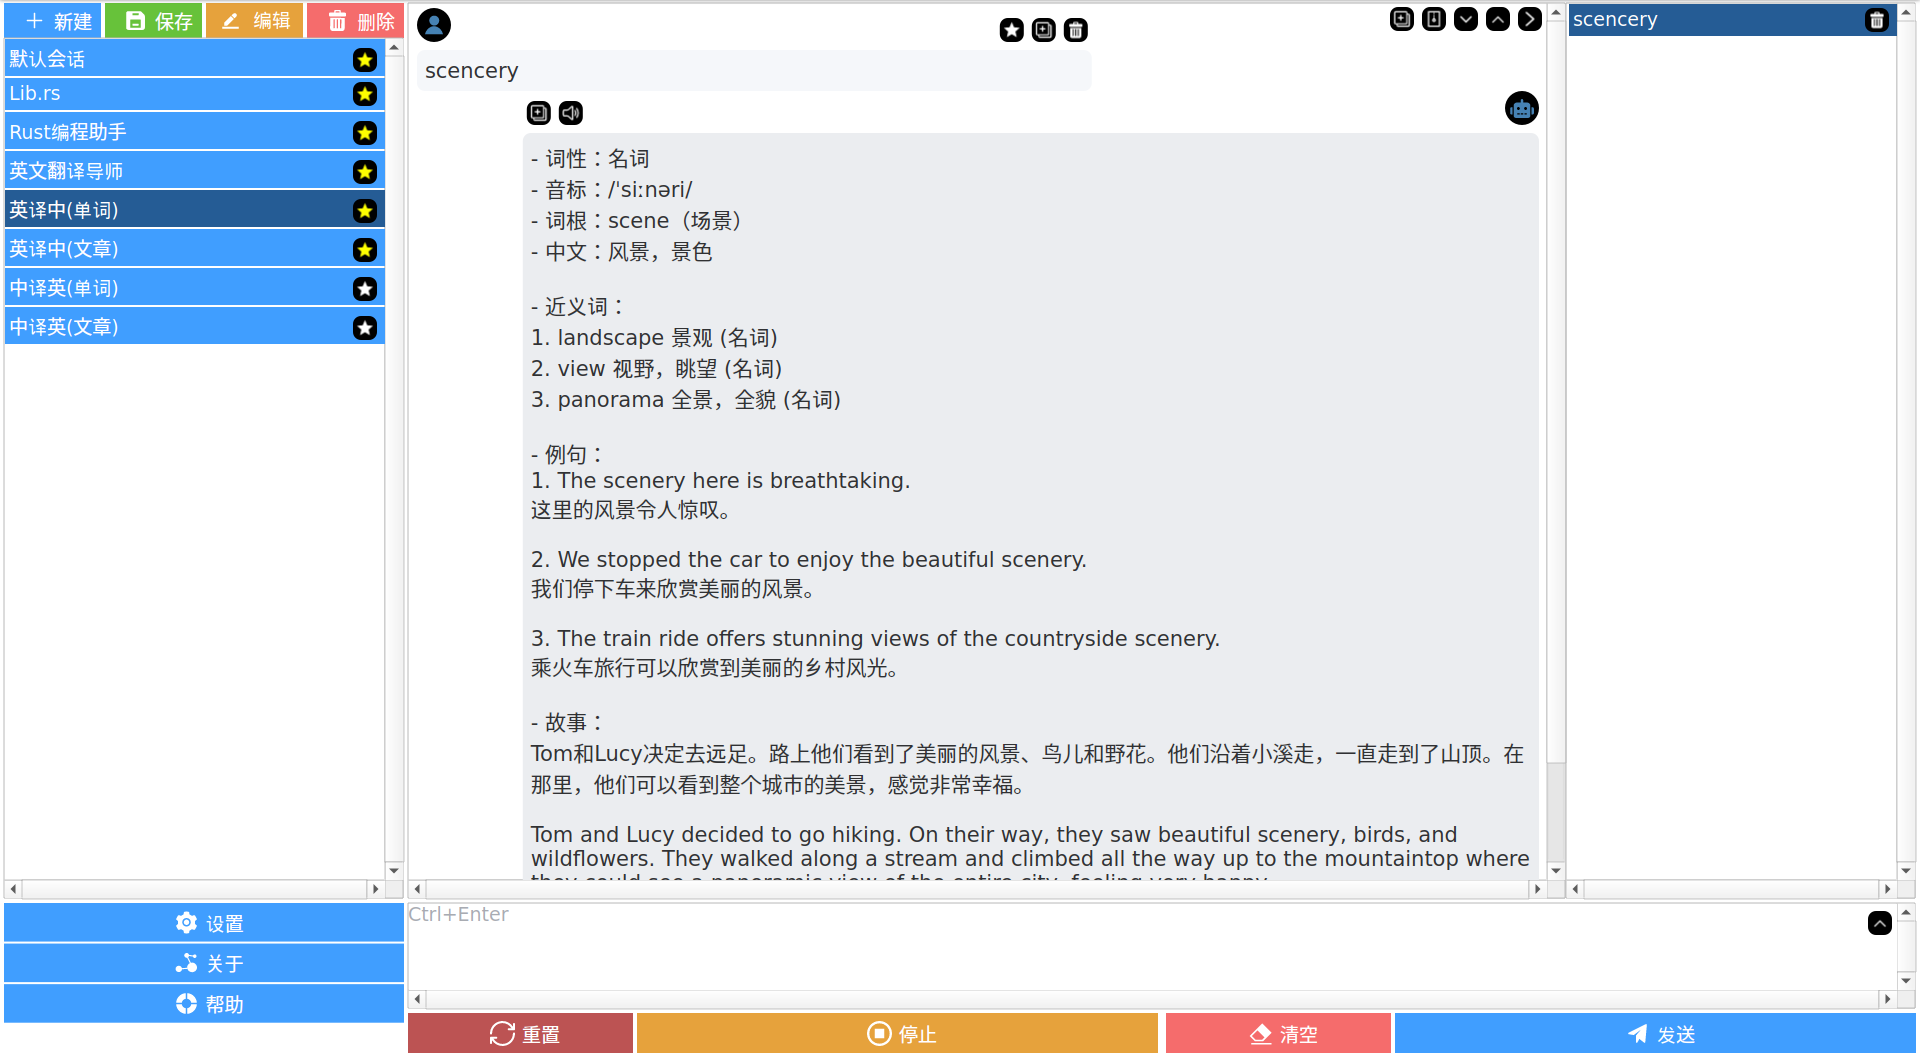
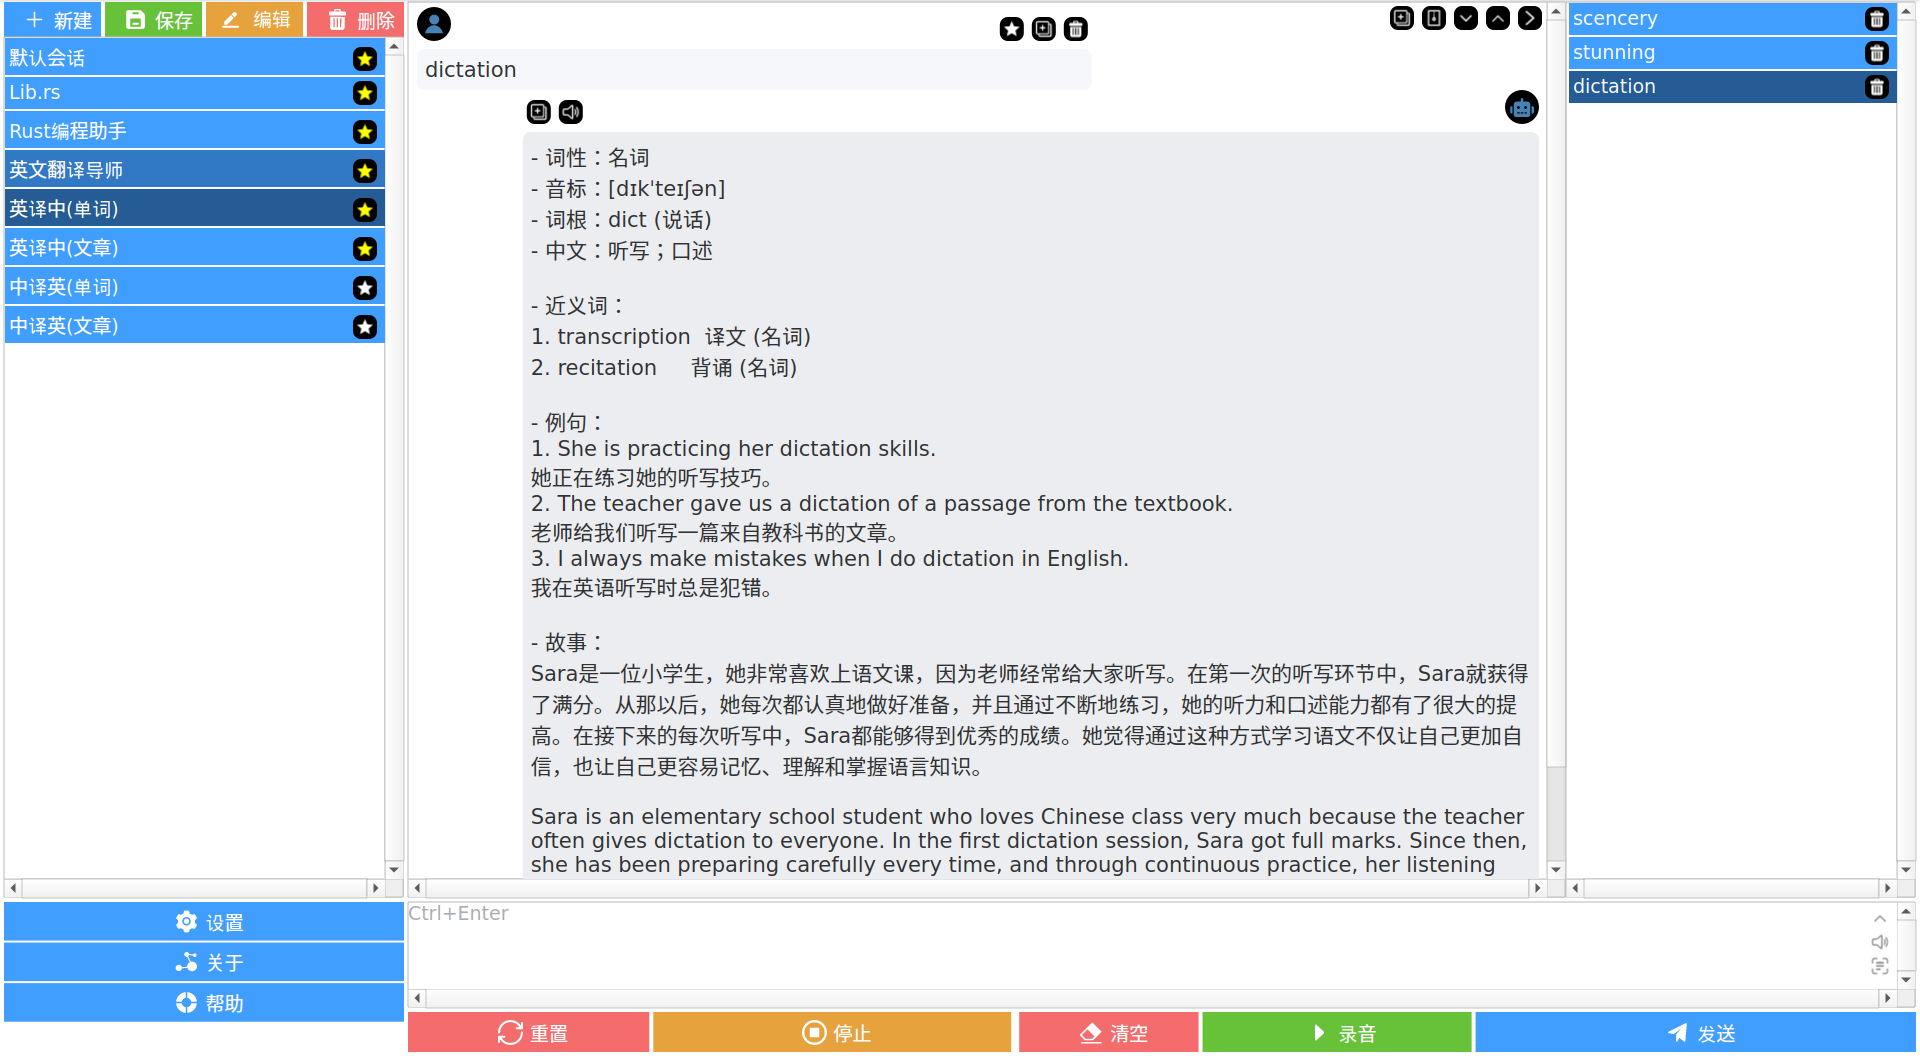
[+] 添加azure声音转文本功能

diff --git a/chatbox/src/logic/record.rs b/chatbox/src/logic/record.rs
@@ -1,6 +1,7 @@
 use crate::slint_generatedAppWindow::{AppWindow, Logic, Store};
 use crate::util::{self, qbox::QBox, translator::tr};
 use crate::{audio, config};
+use log::{debug, warn};
 use slint::ComponentHandle;
 use tokio::task::spawn;
 
@@ -9,6 +10,7 @@ static RECORD_FILENAME: &str = "record.wav";
 pub fn init(ui: &AppWindow) {
     let ui_start_box = QBox::new(ui);
     let ui_play_box = QBox::new(ui);
+    let ui_v2t_box = QBox::new(ui);
     let ui_stop = ui.as_weak();
     let ui_play = ui.as_weak();
 
@@ -18,27 +20,55 @@ pub fn init(ui: &AppWindow) {
             let record_filepath = config::audio_path() + "/" + RECORD_FILENAME;
             let device_name = audio_config.current_input_device;
 
-            ui_start_box
-                .borrow()
-                .global::<Store>()
-                .set_is_audio_recording(true);
+            if let Err(e) = slint::invoke_from_event_loop(move || {
+                ui_start_box
+                    .borrow()
+                    .global::<Store>()
+                    .set_is_audio_recording(true);
+            }) {
+                warn!("{:?}", e);
+            }
 
-            if let Err(e) = audio::record::record(
+            let is_auto_v2t = audio_config.is_auto_v2t;
+            match audio::record::record(
                 &device_name,
                 &record_filepath,
                 audio_config.max_recording_duration,
             ) {
-                ui_start_box.borrow().global::<Logic>().invoke_show_message(
-                    slint::format!("{}: {:?}", tr("录音失败") + "!", e),
-                    "warning".into(),
-                );
-            };
+                Err(e) => {
+                    if let Err(e) = slint::invoke_from_event_loop(move || {
+                        ui_start_box.borrow().global::<Logic>().invoke_show_message(
+                            slint::format!("{}: {:?}", tr("录音失败") + "!", e),
+                            "warning".into(),
+                        );
+                    }) {
+                        warn!("{:?}", e);
+                    }
+                }
+                _ => {
+                    if is_auto_v2t {
+                        if let Err(e) = slint::invoke_from_event_loop(move || {
+                            ui_start_box
+                                .borrow_mut()
+                                .global::<Logic>()
+                                .invoke_voice_to_text();
+                        }) {
+                            warn!("{:?}", e);
+                        }
+                    }
+                }
+            }
 
             audio::record::set_recording(false);
-            ui_start_box
-                .borrow()
-                .global::<Store>()
-                .set_is_audio_recording(false);
+
+            if let Err(e) = slint::invoke_from_event_loop(move || {
+                ui_start_box
+                    .borrow()
+                    .global::<Store>()
+                    .set_is_audio_recording(false);
+            }) {
+                warn!("{:?}", e);
+            }
         });
     });
 
@@ -61,5 +91,71 @@ pub fn init(ui: &AppWindow) {
                 "info".into(),
             );
         }
+    });
+
+    ui.global::<Logic>().on_voice_to_text(move || {
+        ui_v2t_box
+            .borrow()
+            .global::<Logic>()
+            .invoke_show_message(tr("正在将录音转换为文本...").into(), "info".into());
+
+        spawn(async move {
+            let record_filepath = config::audio_path() + "/" + RECORD_FILENAME;
+            let audio_config = config::audio();
+            match audio::azure::speech_to_text(&record_filepath, &audio_config.speech_language)
+                .await
+            {
+                Err(e) => {
+                    let estr = e.to_string();
+                    if let Err(e) = slint::invoke_from_event_loop(move || {
+                        ui_v2t_box.borrow().global::<Logic>().invoke_show_message(
+                            slint::format!("{}: {:?}", tr("录音转文字失败") + "!", estr),
+                            "warning".into(),
+                        );
+                    }) {
+                        warn!("{:?}", e);
+                    }
+                }
+
+                Ok(text) => match serde_json::from_str::<audio::data::Speech2Text>(&text) {
+                    Ok(item) => {
+                        debug!("{:?}", &item);
+                        if item.recognition_status != "Success" {
+                            if let Err(e) = slint::invoke_from_event_loop(move || {
+                                ui_v2t_box.borrow().global::<Logic>().invoke_show_message(
+                                    slint::format!("{}", tr("录音转文字失败") + "!"),
+                                    "warning".into(),
+                                );
+                            }) {
+                                warn!("{:?}", e);
+                            }
+                        }
+
+                        if let Err(e) = slint::invoke_from_event_loop(move || {
+                            let question = ui_v2t_box.borrow().get_question();
+                            let question = if question.trim().is_empty() {
+                                item.display_text.into()
+                            } else {
+                                question + "\n\n" + &item.display_text
+                            };
+                            ui_v2t_box.borrow().set_question(question);
+                        }) {
+                            warn!("{:?}", e);
+                        }
+                    }
+                    Err(e) => {
+                        let estr = e.to_string();
+                        if let Err(e) = slint::invoke_from_event_loop(move || {
+                            ui_v2t_box.borrow().global::<Logic>().invoke_show_message(
+                                slint::format!("{}: {:?}", tr("录音转文字失败") + "!", estr),
+                                "warning".into(),
+                            );
+                        }) {
+                            warn!("{:?}", e);
+                        }
+                    }
+                },
+            }
+        });
     });
 }

diff --git a/chatbox/src/audio/azure.rs b/chatbox/src/audio/azure.rs
@@ -7,6 +7,8 @@ use crate::util::translator::tr;
 use log::warn;
 use reqwest::header::{HeaderMap, HeaderValue};
 use slint::ComponentHandle;
+use std::fs::File;
+use std::io::Read;
 use std::path::Path;
 use std::sync::atomic::{AtomicBool, Ordering};
 use std::time::Duration;
@@ -115,12 +117,38 @@ async fn text_to_speech(text: &str, output_path: &str) -> Result<(), Box<dyn std
     Ok(())
 }
 
-// TODO
 pub async fn speech_to_text(
     input_path: &str,
     language: &str,
 ) -> Result<String, Box<dyn std::error::Error>> {
-    Ok(String::default())
+    let mut audio_file = File::open(input_path)?;
+    let mut audio_content = Vec::new();
+    audio_file.read_to_end(&mut audio_content)?;
+
+    let audio_config = config::audio();
+    let url = format!("https://{}.stt.speech.microsoft.com/speech/recognition/conversation/cognitiveservices/v1?language={}&format=simple", audio_config.region, if language == "en" {
+        "en-US"
+    } else {
+        "zh-CN"
+    });
+
+    let mut headers = HeaderMap::new();
+    headers.insert("Content-Type", HeaderValue::from_str("audio/wav")?);
+    headers.insert(
+        "Ocp-Apim-Subscription-Key",
+        HeaderValue::from_str(&audio_config.api_key)?,
+    );
+
+    let response = reqwest::ClientBuilder::new()
+        .build()?
+        .post(&url)
+        .timeout(Duration::from_secs(audio_config.s2t_max_request_duration))
+        .headers(headers)
+        .body(audio_content)
+        .send()
+        .await?;
+
+    Ok(response.text().await?)
 }
 
 fn split_text(text: &str) -> Vec<AzureTextItem> {

diff --git a/chatbox/src/logic/setting.rs b/chatbox/src/logic/setting.rs
@@ -92,6 +92,7 @@ pub fn init(ui: &AppWindow) {
         config.audio.region = setting_config.audio.region.to_string();
         config.audio.api_key = setting_config.audio.api_key.to_string();
         config.audio.current_input_device = setting_config.audio.current_input_device.to_string();
+        config.audio.speech_language = setting_config.audio.speech_language.to_string();
         config.audio.is_auto_v2t = setting_config.audio.is_auto_v2t;
 
         match config::save(config) {
@@ -151,6 +152,7 @@ fn init_setting_dialog(ui: Weak<AppWindow>) {
     setting_dialog.audio.region = audio_config.region.into();
     setting_dialog.audio.api_key = audio_config.api_key.into();
     setting_dialog.audio.current_input_device = audio_config.current_input_device.into();
+    setting_dialog.audio.speech_language = audio_config.speech_language.into();
     setting_dialog.audio.is_auto_v2t = audio_config.is_auto_v2t;
 
     ui.global::<Store>()

diff --git a/chatbox/src/config/data.rs b/chatbox/src/config/data.rs
@@ -108,6 +108,7 @@ pub struct Audio {
     pub api_key: String,
     pub current_input_device: String,
     pub is_auto_v2t: bool,
+    pub speech_language: String,
     pub max_recording_duration: i64,
     pub t2s_max_request_duration: u64,
     pub s2t_max_request_duration: u64,
@@ -120,9 +121,10 @@ impl Default for Audio {
             api_key: String::default(),
             current_input_device: "default".to_string(),
             is_auto_v2t: false,
+            speech_language: "cn".to_string(),
             max_recording_duration: 60,
-            t2s_max_request_duration: 60,
-            s2t_max_request_duration: 30,
+            t2s_max_request_duration: 180,
+            s2t_max_request_duration: 180,
         }
     }
 }

diff --git a/chatbox/src/util/translator.rs b/chatbox/src/util/translator.rs
@@ -42,6 +42,8 @@ pub fn tr(text: &str) -> String {
     items.insert("开始录音...", "Start Recording...");
     items.insert("录音失败", "Recording Failed");
     items.insert("录音文件不存在", "Recording File Not Exist");
+    items.insert("录音转文字失败", "Speech2Text Failed");
+    items.insert("正在将录音转换为文本...", "Converting Record to Text...");
 
     if let Some(txt) = items.get(text) {
         return txt.to_string();

diff --git a/chatbox/src/audio/data.rs b/chatbox/src/audio/data.rs
@@ -9,3 +9,18 @@ pub struct AzureTextItem {
     pub text_type: TextType,
     pub text: String,
 }
+
+#[derive(Serialize, Deserialize, Default, Debug, Clone)]
+pub struct Speech2Text {
+    #[serde(rename = "RecognitionStatus" )]
+    pub recognition_status: String,
+
+    #[serde(rename = "Offset" )]
+    pub offset: u64,
+
+    #[serde(rename = "Duration" )]
+    pub duration: u64,
+
+    #[serde(rename = "DisplayText" )]
+    pub display_text: String,
+}

diff --git a/chatbox/src/audio/mod.rs b/chatbox/src/audio/mod.rs
@@ -1,5 +1,4 @@
-mod data;
-
+pub mod data;
 pub mod play;
 pub mod record;
 pub mod azure;

diff --git a/README.md b/README.md
@@ -13,7 +13,7 @@
 - [x] 支持中英界面
 - [x] 支持中英双语朗读
 - [x] 支持对话归档
-- [] 支持录音转文字输入
+- [x] 支持录音转文字输入
 
 #### 参考
 - [Slint Language Documentation](https://slint-ui.com/releases/1.0.0/docs/slint/)
